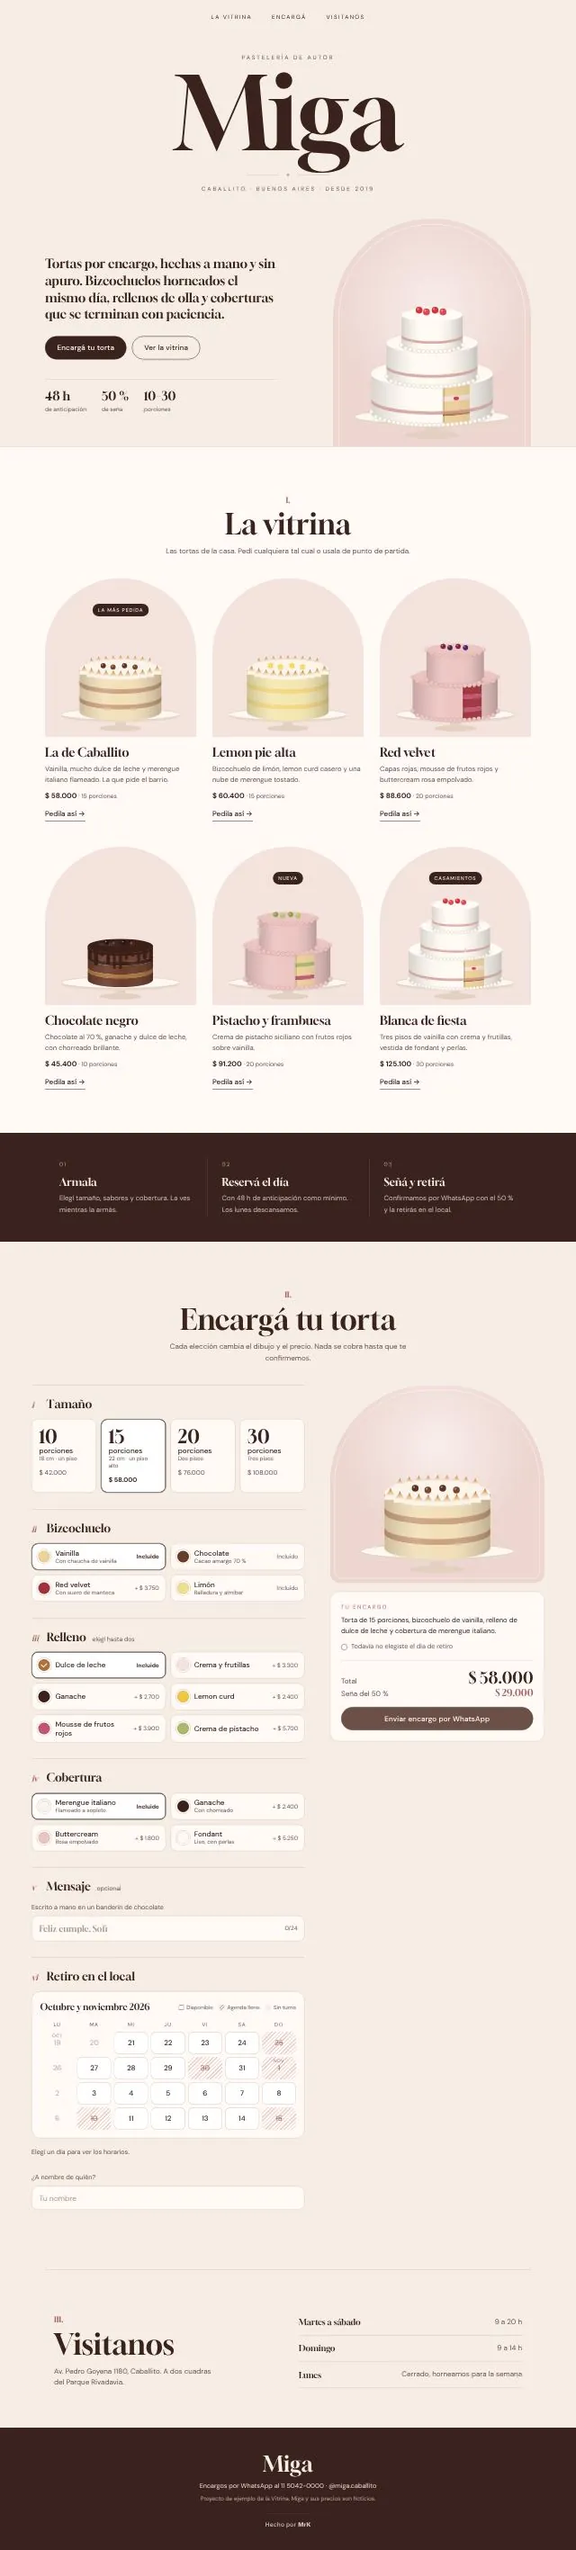
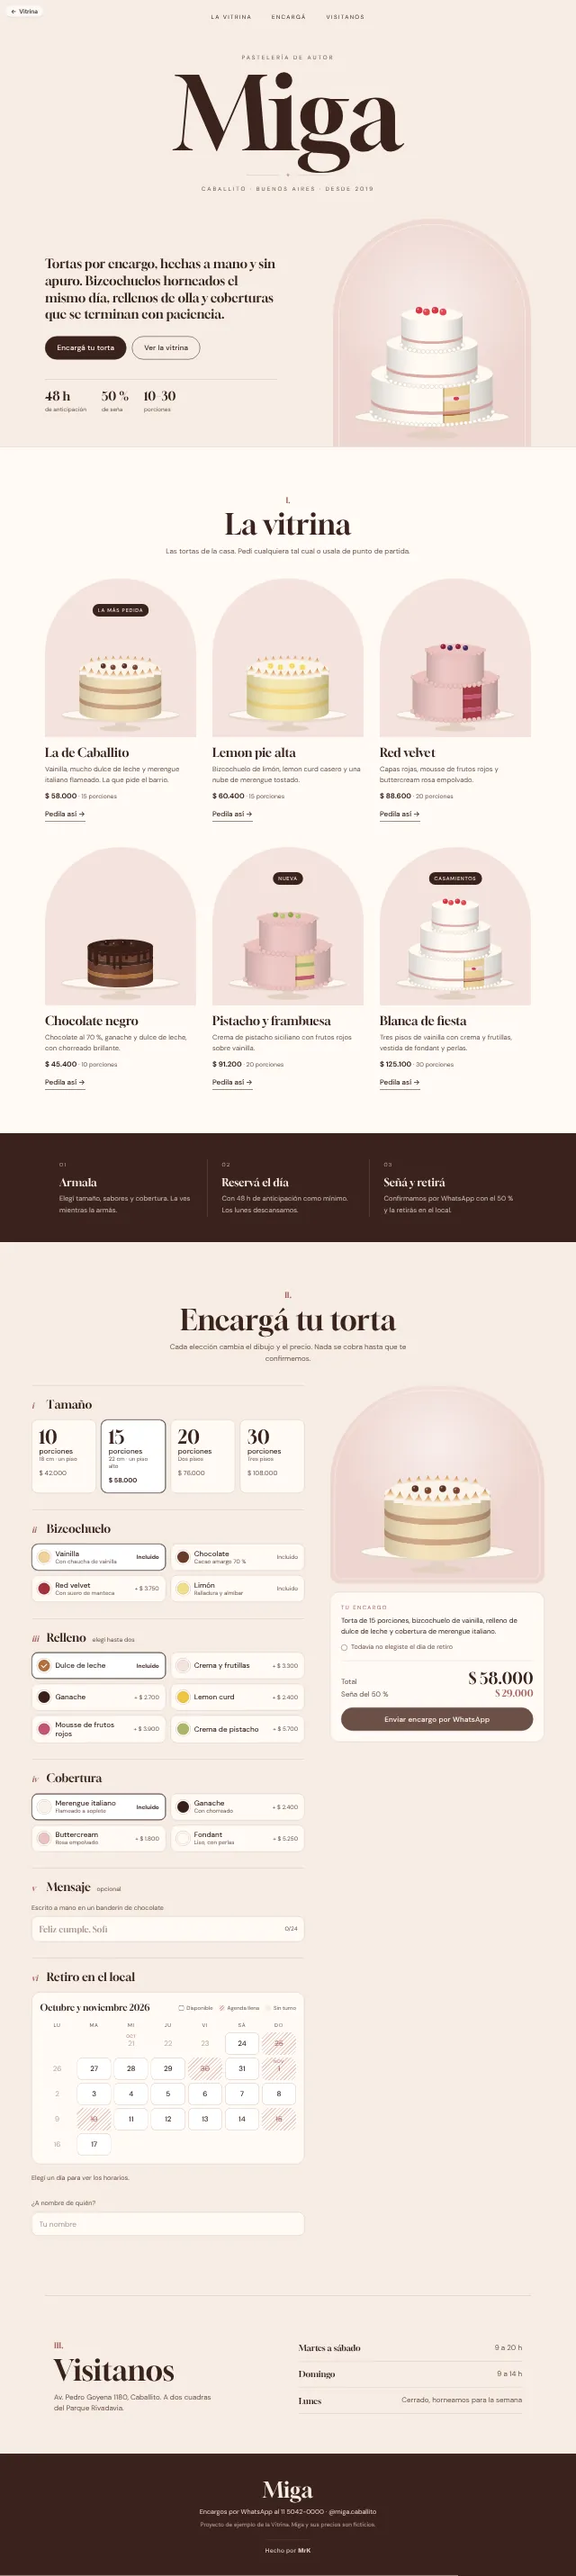
Vitrina: captura completa de Raíz
La anterior se sacó antes de que aparecieran los pasos del menú y se veían
círculos vacíos. Se rehace con 'reducir movimiento' (también la de Miga, que
ahora muestra la torta en el configurador).

Claude-Session: https://claude.ai/code/session_01RmSa6ZodU4Ugu4JR4gnEdJ

diff --git a/index.html b/index.html
@@ -432,7 +432,7 @@
           </li>
           <li class="muestra" data-tipo="app">
             <div class="muestra-vista" aria-hidden="true">
-              <img src="img/vitrina/miga.webp" width="640" height="2834" loading="lazy" alt="" />
+              <img src="img/vitrina/miga.webp" width="640" height="2862" loading="lazy" alt="" />
             </div>
             <p class="muestra-tipo">App · Tortas por encargo</p>
             <h3 class="muestra-nombre">Miga</h3>
